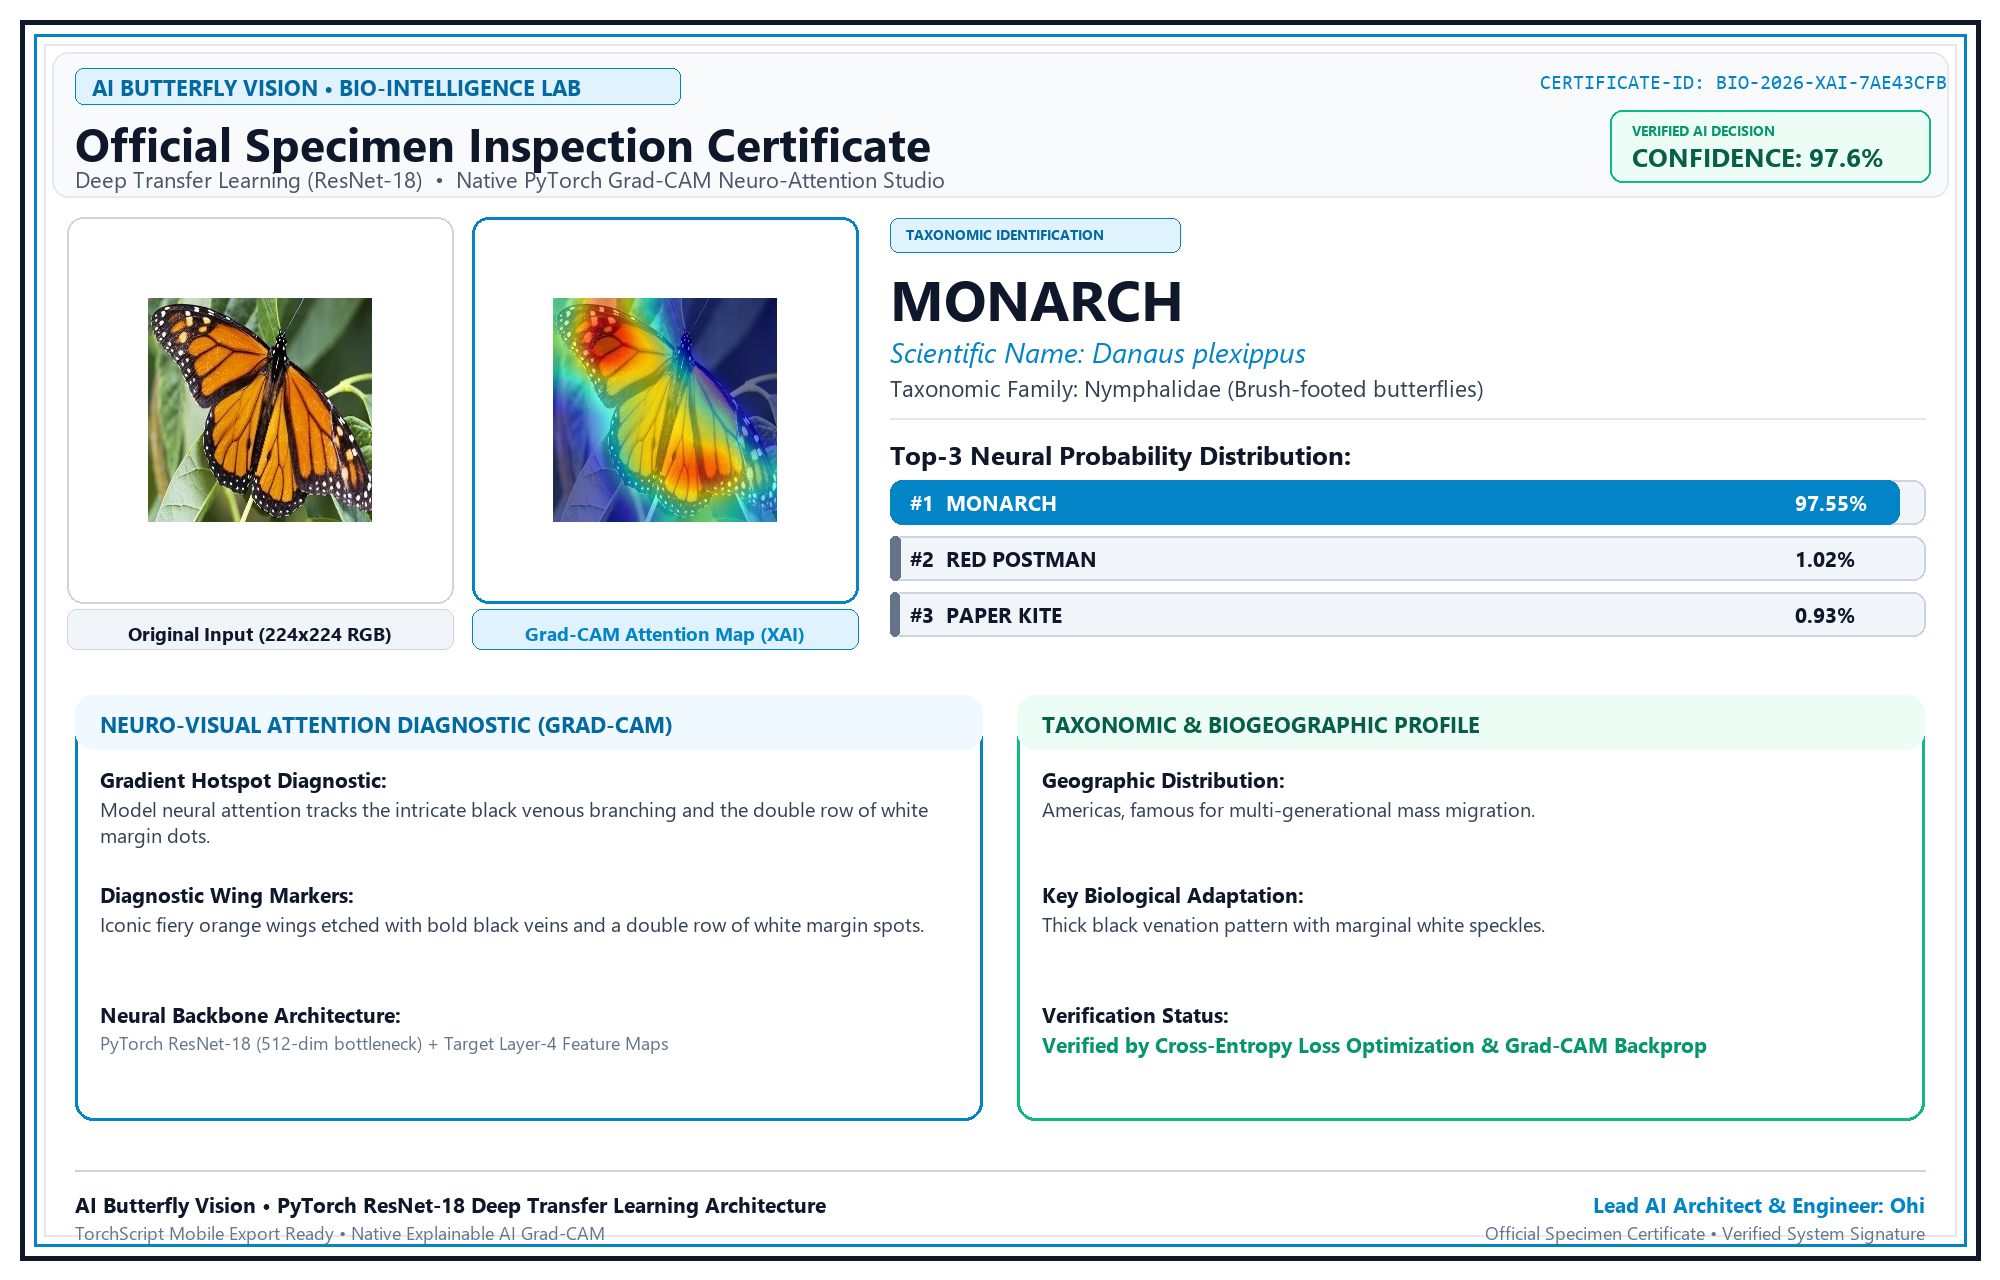
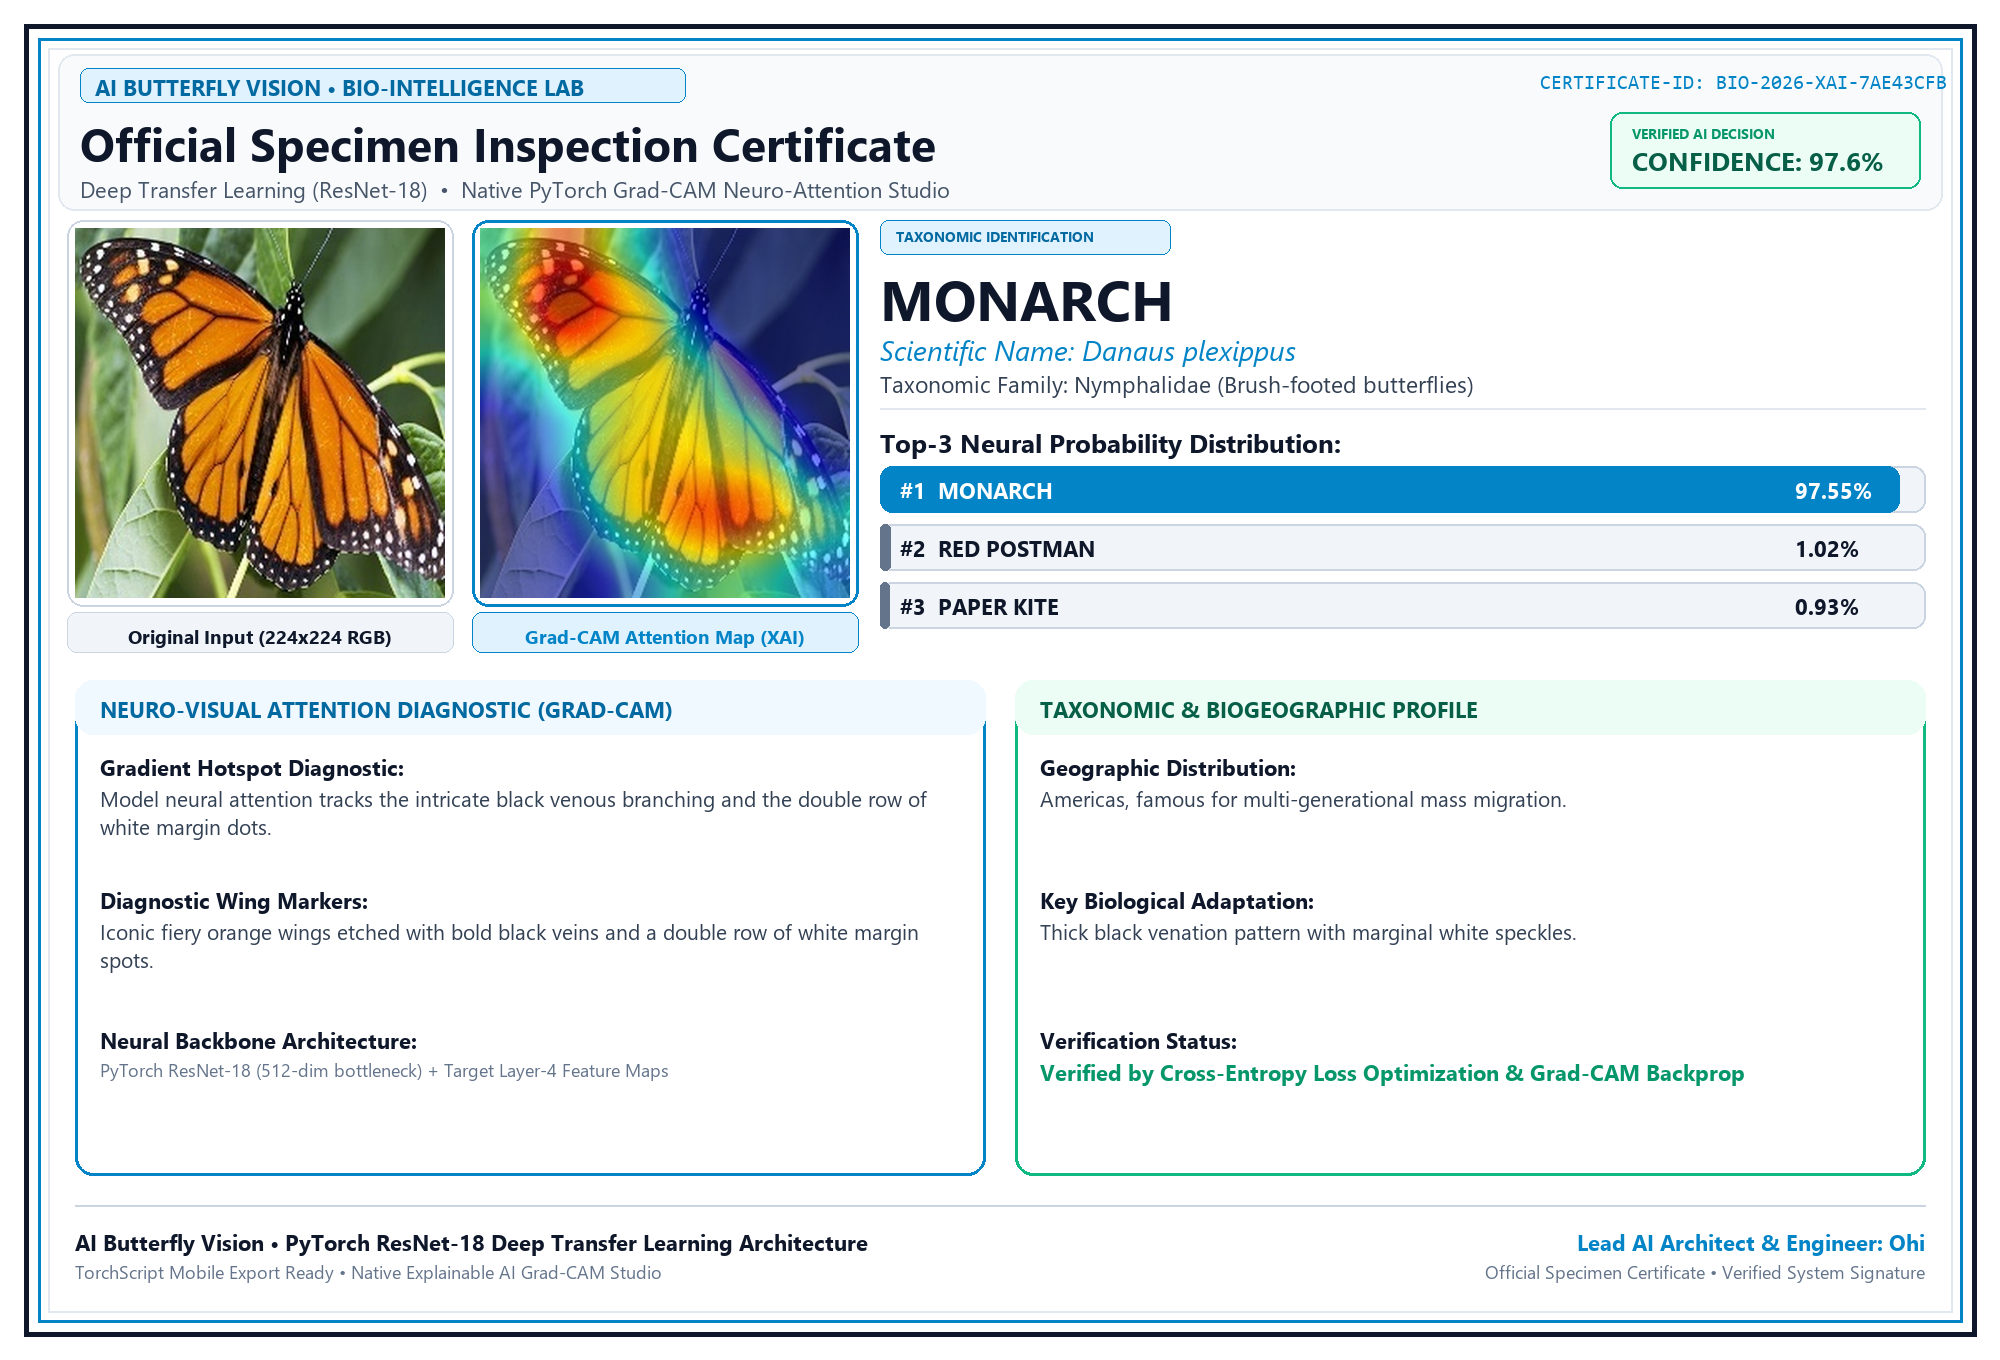
Fix certificate preview to render exact high-resolution certificate matching downloaded image

Changed region(s): [[0.0, 0.0, 0.992, 1.0], [0.527, 0.5, 0.744, 0.5312]]

diff --git a/app/app.py b/app/app.py
@@ -3148,17 +3148,6 @@ if active_image is not None:
         if st.session_state.get("show_report_modal", False):
             st.markdown("<div style='height: 25px;'></div>", unsafe_allow_html=True)
             
-            report_meta = SPECIES_METADATA.get(pred_class, {
-                "scientific_name": "Unknown species",
-                "family": "Insecta • Lepidoptera",
-                "appearance": "Distinct biological visual wing markings.",
-                "distribution": "Global biodiversity habitat.",
-                "key_features": "Diagnostic taxonomic wing venation pattern.",
-                "xai_insight": "Model neural attention concentrated on discriminative visual wing patterns."
-            })
-            
-            cert_hash = hashlib.md5(f"{pred_class}_{confidence}".encode()).hexdigest()[:8].upper()
-            
             report_bytes = generate_report_card(
                 original_image=display_img,
                 overlay_image=overlay_img,
@@ -3167,83 +3156,45 @@ if active_image is not None:
                 top_k=top_k
             )
 
-            # Crystal Clear Interactive High-Contrast Native Web Report Dossier
-            report_html = f"""<div style="background: #FFFFFF; border: 2.5px solid #0284C7; border-radius: 24px; padding: 28px; box-shadow: 0 16px 40px rgba(2, 132, 199, 0.16); margin-bottom: 20px;">
-<div style="display: flex; justify-content: space-between; align-items: center; border-bottom: 2px solid #E2E8F0; padding-bottom: 18px; margin-bottom: 22px; flex-wrap: wrap; gap: 12px;">
+            # High-Resolution Official Certificate Preview Header
+            cert_header_html = f"""<div style="background: #FFFFFF; border: 2px solid #0284C7; border-radius: 18px 18px 0 0; padding: 18px 24px; box-shadow: 0 8px 24px rgba(2, 132, 199, 0.12); margin-bottom: 0px; border-bottom: none;">
+<div style="display: flex; justify-content: space-between; align-items: center; flex-wrap: wrap; gap: 12px;">
 <div>
-<div style="display: inline-flex; align-items: center; gap: 6px; background: #E0F2FE; color: #0284C7; font-size: 0.82rem; font-weight: 900; padding: 4px 12px; border-radius: 999px; text-transform: uppercase; margin-bottom: 8px;">
+<div style="display: inline-flex; align-items: center; gap: 6px; background: #E0F2FE; color: #0284C7; font-size: 0.78rem; font-weight: 900; padding: 3px 10px; border-radius: 999px; text-transform: uppercase; margin-bottom: 6px;">
 AI BUTTERFLY VISION • BIO-INTELLIGENCE LAB
 </div>
-<div style="font-size: 1.85rem; font-weight: 900; color: #0F172A; line-height: 1.2;">
+<div style="font-size: 1.45rem; font-weight: 900; color: #0F172A; line-height: 1.2;">
 {t('cert_preview_title')}
 </div>
-<div style="font-size: 0.90rem; font-weight: 700; color: #64748B; margin-top: 4px;">
-CERTIFICATE-ID: BIO-2026-XAI-{cert_hash} • ResNet-18 + Grad-CAM XAI
 </div>
-</div>
-<div style="background: #ECFDF5; border: 2px solid #10B981; border-radius: 16px; padding: 10px 18px; text-align: right;">
-<div style="font-size: 0.78rem; font-weight: 900; color: #059669; text-transform: uppercase;">VERIFIED AI DECISION</div>
-<div style="font-size: 1.55rem; font-weight: 900; color: #065F46;">{confidence:.1f}% MATCH</div>
-</div>
-</div>
-<div style="display: grid; grid-template-columns: repeat(auto-fit, minmax(320px, 1fr)); gap: 18px; margin-top: 20px;">
-<div style="background: #F8FAFC; border: 2px solid #0284C7; border-radius: 18px; padding: 20px;">
-<div style="font-size: 1.05rem; font-weight: 900; color: #0284C7; margin-bottom: 12px; display: flex; align-items: center; gap: 6px;">
-🔬 NEURO-VISUAL ATTENTION (GRAD-CAM)
-</div>
-<div style="font-size: 0.96rem; color: #0F172A; font-weight: 800; margin-bottom: 8px;">
-Gradient Hotspot Diagnostic:
-</div>
-<div style="font-size: 0.92rem; color: #334155; line-height: 1.55; margin-bottom: 14px; font-weight: 600;">
-{report_meta['xai_insight']}
-</div>
-<div style="font-size: 0.96rem; color: #0F172A; font-weight: 800; margin-bottom: 6px;">
-Diagnostic Wing Markers:
-</div>
-<div style="font-size: 0.92rem; color: #334155; line-height: 1.55; font-weight: 600;">
-{report_meta['appearance']}
-</div>
-</div>
-<div style="background: #F0FDF4; border: 2px solid #10B981; border-radius: 18px; padding: 20px;">
-<div style="font-size: 1.05rem; font-weight: 900; color: #065F46; margin-bottom: 12px; display: flex; align-items: center; gap: 6px;">
-🌿 TAXONOMIC & BIOGEOGRAPHIC PROFILE
-</div>
-<div style="font-size: 0.96rem; color: #065F46; font-weight: 800; margin-bottom: 8px;">
-Geographic Distribution:
-</div>
-<div style="font-size: 0.92rem; color: #1E293B; line-height: 1.55; margin-bottom: 14px; font-weight: 600;">
-{report_meta['distribution']}
-</div>
-<div style="font-size: 0.96rem; color: #065F46; font-weight: 800; margin-bottom: 6px;">
-Key Biological Adaptation:
-</div>
-<div style="font-size: 0.92rem; color: #1E293B; line-height: 1.55; font-weight: 600;">
-{report_meta['key_features']}
-</div>
-</div>
-</div>
-<div style="display: flex; justify-content: space-between; align-items: center; border-top: 1.5px solid #E2E8F0; padding-top: 16px; margin-top: 20px; flex-wrap: wrap; gap: 8px;">
-<div style="font-size: 0.86rem; font-weight: 700; color: #64748B;">
-AI Butterfly Vision • PyTorch ResNet-18 Deep Transfer Learning Architecture
-</div>
-<div style="font-size: 0.92rem; font-weight: 900; color: #0284C7;">
-Lead AI Architect & Engineer: Ohi
+<div style="background: #ECFDF5; border: 1.5px solid #10B981; border-radius: 12px; padding: 6px 14px; text-align: right;">
+<div style="font-size: 0.72rem; font-weight: 900; color: #059669; text-transform: uppercase;">VERIFIED AI DECISION</div>
+<div style="font-size: 1.25rem; font-weight: 900; color: #065F46;">{confidence:.1f}% MATCH</div>
 </div>
 </div>
 </div>"""
-            st.markdown(report_html, unsafe_allow_html=True)
+            st.markdown(cert_header_html, unsafe_allow_html=True)
+            
+            # Display the EXACT High-Resolution Certificate image that matches the downloaded file
+            st.image(
+                report_bytes,
+                caption=t("cert_caption").format(species=pred_class),
+                use_container_width=True
+            )
+
+            st.markdown("<div style='height: 14px;'></div>", unsafe_allow_html=True)
 
             action_c1, action_c2 = st.columns([1.5, 1])
             with action_c1:
                 st.download_button(
-                    label="📥 " + ("অফিশিয়াল ৪K সার্টিফিকেট ডাউনলোড করুন (High-Res PNG)" if st.session_state.app_lang == "BN" else "Download Official 4K Certificate (High-Res PNG)"),
+                    label=t("btn_download_cert"),
                     data=report_bytes,
                     file_name=f"Butterfly_AI_Report_{pred_class.replace(' ', '_')}.png",
                     mime="image/png",
                     use_container_width=True
                 )
             with action_c2:
-                if st.button("❌ " + ("রিপোর্ট ভিউ বন্ধ করুন" if st.session_state.app_lang == "BN" else "Close Report View"), use_container_width=True):
+                if st.button(t("btn_close_cert"), use_container_width=True):
                     st.session_state.show_report_modal = False
                     st.rerun()
 
